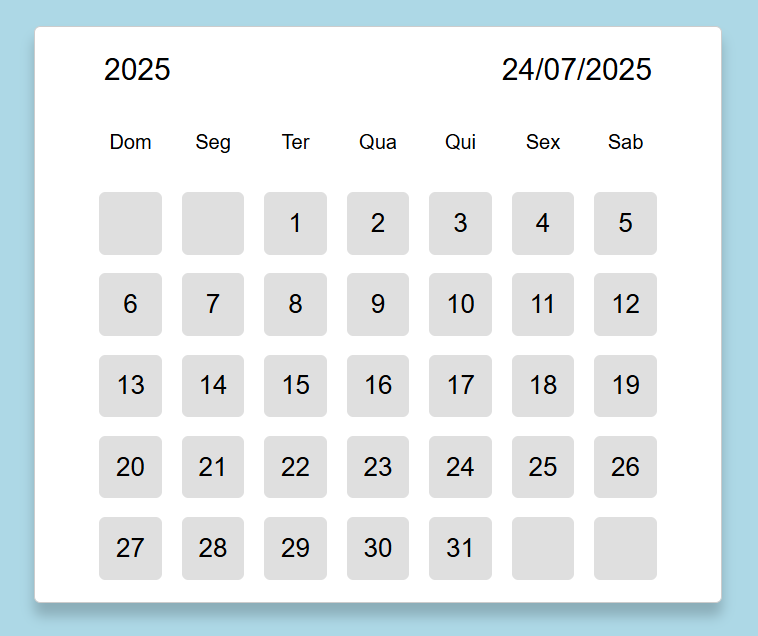
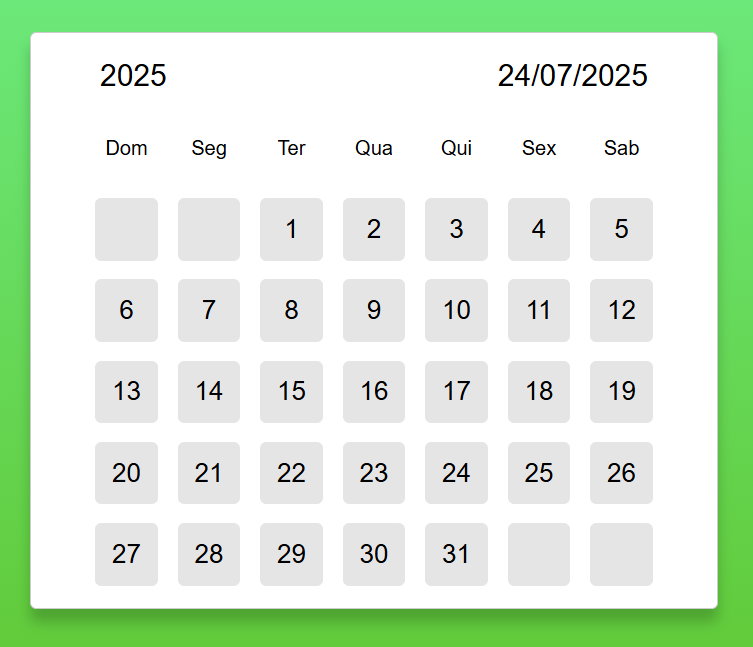
calendario

diff --git a/my-app/src/components/Calendario.vue b/my-app/src/components/Calendario.vue
@@ -128,7 +128,7 @@ export default {
     align-items: center;
     justify-content: center;
     border-radius: 5px;
-    background-color: #dfdfdf;
+    background-color: #e5e5e5;
     font-size: 1.3rem;
 }
 

diff --git a/my-app/src/App.vue b/my-app/src/App.vue
@@ -28,6 +28,6 @@ body{
   align-items: center;
   justify-content: center;
   flex-direction: column;
-  background-color: lightblue;
+  background: linear-gradient(to top, #5fc52e, #6eee87);
 }
 </style>
